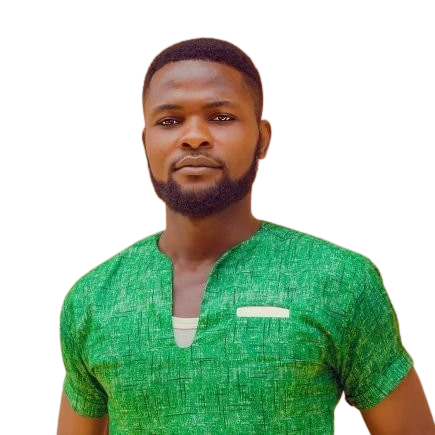
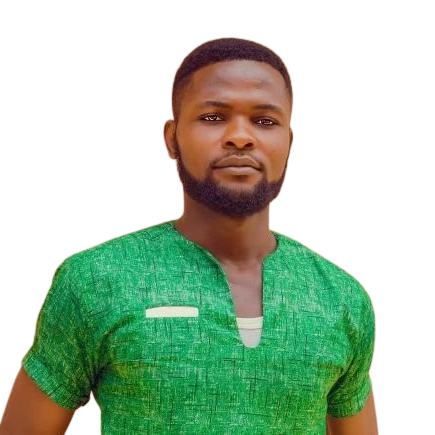
my portfolio updated

diff --git a/src/pages/projects.tsx b/src/pages/projects.tsx
@@ -6,7 +6,7 @@ const Projects = () => {
         My Projects
       </h1>
       <main>
-        <div className="py-9 grid grid-cols-1 md:grid-cols-2 lg:grid-cols-3 gap-4">
+        <div className="py-9 grid grid-cols-1 md:grid-cols-2 lg:grid-cols-3 gap-4 max-lg:mx-10 max-[1100px]:mx-10">
           <div className="bg-gray-900 border items-center flex flex-col rounded h-72 relative">
             <h2 className="text-white text-lg font-semibold">Project 1</h2>
             <a
@@ -16,8 +16,13 @@ const Projects = () => {
               <img src="/moove.png" className="object-cover w-full h-full rounded" />
             </a>
             <p className="text-gray-300 montserrat-regular">
-              Description of Project 1
+              Moove - A Car Rental Service website Clone
             </p>
+            <div className="m-2 text-center text-amber-50">
+              <b>Tools Used: <span className="text-blue-500 bg-sky-400 mb-2">Html</span> and <span className="text-blue-500 bg-sky-400">CSS</span>. </b>
+              <br />
+              <i>first page i built during my training at sail</i>
+            </div>
           </div>
           <div className="bg-gray-900 border items-center flex flex-col rounded h-72 relative">
             <h2 className="text-white text-lg font-semibold">Project 2</h2>
@@ -28,8 +33,13 @@ const Projects = () => {
               <img src="/piggy.png" className="object-cover w-full h-full rounded" />
             </a>
             <p className="text-gray-300 montserrat-regular">
-              Description of Project 1
+              piggy-clone - A PiggyVest Clone
             </p>
+            <div className="m-2 text-center text-amber-50">
+              <b>Tools Used: <span className="text-blue-500 bg-sky-400 mb-2">React.js</span>  <span className="text-blue-500 bg-sky-400">TailwindCSS</span>. </b>
+              <br />
+              <i>built with React.js and TailwindCSS</i>
+            </div>
           </div>
           <div className="bg-gray-900 border items-center flex flex-col rounded h-72 relative">
             <h2 className="text-white text-lg font-semibold">Project 3</h2>
@@ -43,8 +53,13 @@ const Projects = () => {
               />
             </a>
             <p className="text-gray-300 montserrat-regular">
-              Description of Project 1
+              Description of Project 3
             </p>
+            <div className="m-2 text-center text-amber-50">
+              <b>Tools Used: <span className="text-blue-500 bg-sky-400 mb-2">Reactjs</span>, <span className="text-blue-500 bg-sky-400 mb-2">Typscript</span> and <span className="text-blue-500 bg-sky-400">TailwindCSS</span>. </b>
+              <br />
+              <i>Portfolio built with simplicity and responsiveness as Project Theme </i>
+            </div>
           </div>
           <div className="bg-gray-900 border items-center flex flex-col rounded h-72 relative">
             <h2 className="text-white text-lg font-semibold">Project 4</h2>
@@ -60,6 +75,11 @@ const Projects = () => {
             <p className="text-gray-300 montserrat-regular">
               Description of Project 1
             </p>
+            <div className="m-2 text-center text-amber-50">
+              <b>Tools Used: <span className="text-blue-500 bg-sky-400 mb-2">Html</span> and <span className="text-blue-500 bg-sky-400">CSS</span>. </b>
+              <br />
+              <i>A shopping Cart Page, enjoys building forlearning purpose</i>
+            </div>
           </div>
           <div className="bg-gray-900 border items-center flex flex-col rounded h-72 relative">
             <h2 className="text-white text-lg font-semibold">Project 5</h2>
@@ -70,8 +90,13 @@ const Projects = () => {
               <img src='/meta.png' className="object-cover w-full h-full rounded" />
             </a>
             <p className="text-gray-300 montserrat-regular">
-              Description of Project 1
+              Meta About Page Clone
             </p>
+            <div className="m-2 text-center text-amber-50">
+              <b>Technologies Used: <span className="text-blue-500 bg-sky-400 mb-2">Html</span> and <span className="text-blue-500 bg-sky-400">CSS</span>. </b>
+              <br />
+              <i> Built for the Culture</i>
+            </div>
           </div>
           <div className="bg-gray-900 border items-center flex flex-col rounded h-72 relative">
             <h2 className="text-white text-lg font-semibold">Project 6</h2>
@@ -85,8 +110,13 @@ const Projects = () => {
               />
             </a>
             <p className="text-gray-300 montserrat-regular">
-              Description of Project 1
+              My Portfolio
             </p>
+            <div className="m-2 text-center text-amber-50">
+              <b>Tools Used: <span className="text-blue-500 bg-sky-400 mb-2">React</span><span className="text-blue-500 bg-sky-400 mb-2">Ts</span> and <span className="text-blue-500 bg-sky-400">Tailwind</span>. </b>
+              <br />
+              <i>first page i built during my training at sail</i>
+            </div>
           </div>
         </div>
       </main>

diff --git a/src/pages/About.tsx b/src/pages/About.tsx
@@ -3,11 +3,11 @@
 const About = () => {
   return (
     <div>
-      <h1 className="h-[100%] flex justify-center special-gothic-expanded-one-regular text-2xl my-9">
+      <h1 className="flex justify-center special-gothic-expanded-one-regular text-2xl my-9 ">
         About Me
       </h1>
-      <div className="flex justify-center gap-12 items-center px-10">
-        <p className="montserrat-regular text-md text-gray-600 w-1/2">
+      <div className="flex max-sm:flex-col-reverse justify-center gap-12 items-center px-10">
+        <p className="montserrat-regular text-gray-600 w-1/2 max-sm:w-full ">
           Hi, I'm James Idris, a Full Stack Software Developer. I have a passion
           for creating dynamic and responsive web applications. I enjoy working
           with the latest technologies and frameworks to deliver high-quality
@@ -18,11 +18,11 @@ const About = () => {
           also enjoy reading tech blogs, contributing to open source projects,
           and participating in online coding communities.
         </p>
-        <div className="w-[30%] h-75 border-2 rounded-[100%] bg-white">
+        <div className="w-[300px]  z-10 rounded-[150%] bg-white">
           <img
-            src='/myimg.png'
+            src='/myimage3.jpg'
             alt="Profile"
-            className="size-full rounded-full bg-white"
+            className="object-fit rounded-full bg-white border-4"
           />
         </div>
       </div>

diff --git a/src/App.tsx b/src/App.tsx
@@ -4,14 +4,14 @@ import Header from "./Components/Header";
 import Home from "./pages/Home";
 import { BrowserRouter, Route, Routes } from "react-router-dom";
 import About from "./pages/About";
-import Projects from "../public/projects";
+import Projects from "./pages/projects";
 // import bgImage from "../src/assets/bg.png";
 import Contacts from "./pages/Contacts";
 
 const App = () => {
   return (
     <div
-      className="max-w-[1028px] mx-auto relative"
+      className="max-w-[1028px] mx-auto relative "
       style={{ backgroundImage: `url(/bg.png)` }}
     >
       <div />

diff --git a/index.html b/index.html
@@ -2,9 +2,9 @@
 <html lang="en">
   <head>
     <meta charset="UTF-8" />
-    <link rel="icon" type="image/svg+xml" href="/vite.svg" />
+    <link rel="icon" type="image/svg+xml" href="/myimg.png" />
     <meta name="viewport" content="width=device-width, initial-scale=1.0" />
-    <title>Vite + React + TS</title>
+    <title>james Idris - Portfolio</title>
   </head>
   <body >
     <div id="root"></div>

diff --git a/src/Components/Header.tsx b/src/Components/Header.tsx
@@ -2,7 +2,10 @@
 import { Link } from "react-router-dom"
 
 function Header() {
-
+// const [isOpen, setIsOpen] = useState(false);
+//   const toggleMenu = () => {
+//     setIsOpen(!isOpen);
+//   };
   return (
 
     <div className="bg- max-w-[1028px] mx-auto bg-white py-1 px-20 text-1xl shadow-[0_2px_1px_rgba(0,0,0,0.1)]">

diff --git a/src/pages/Contacts.tsx b/src/pages/Contacts.tsx
@@ -34,7 +34,9 @@ const Contacts = () => {
         </div >
         <b>Contact me at: devjamesidris@example.com</b>
       </main>
-      <img src='/myimg.png' alt="" />
+      <div className="w-[330px] h-auto place-content-center">
+           <img src='/myimage3.png' alt="" />
+      </div>
     </div>
     </div>
   );
